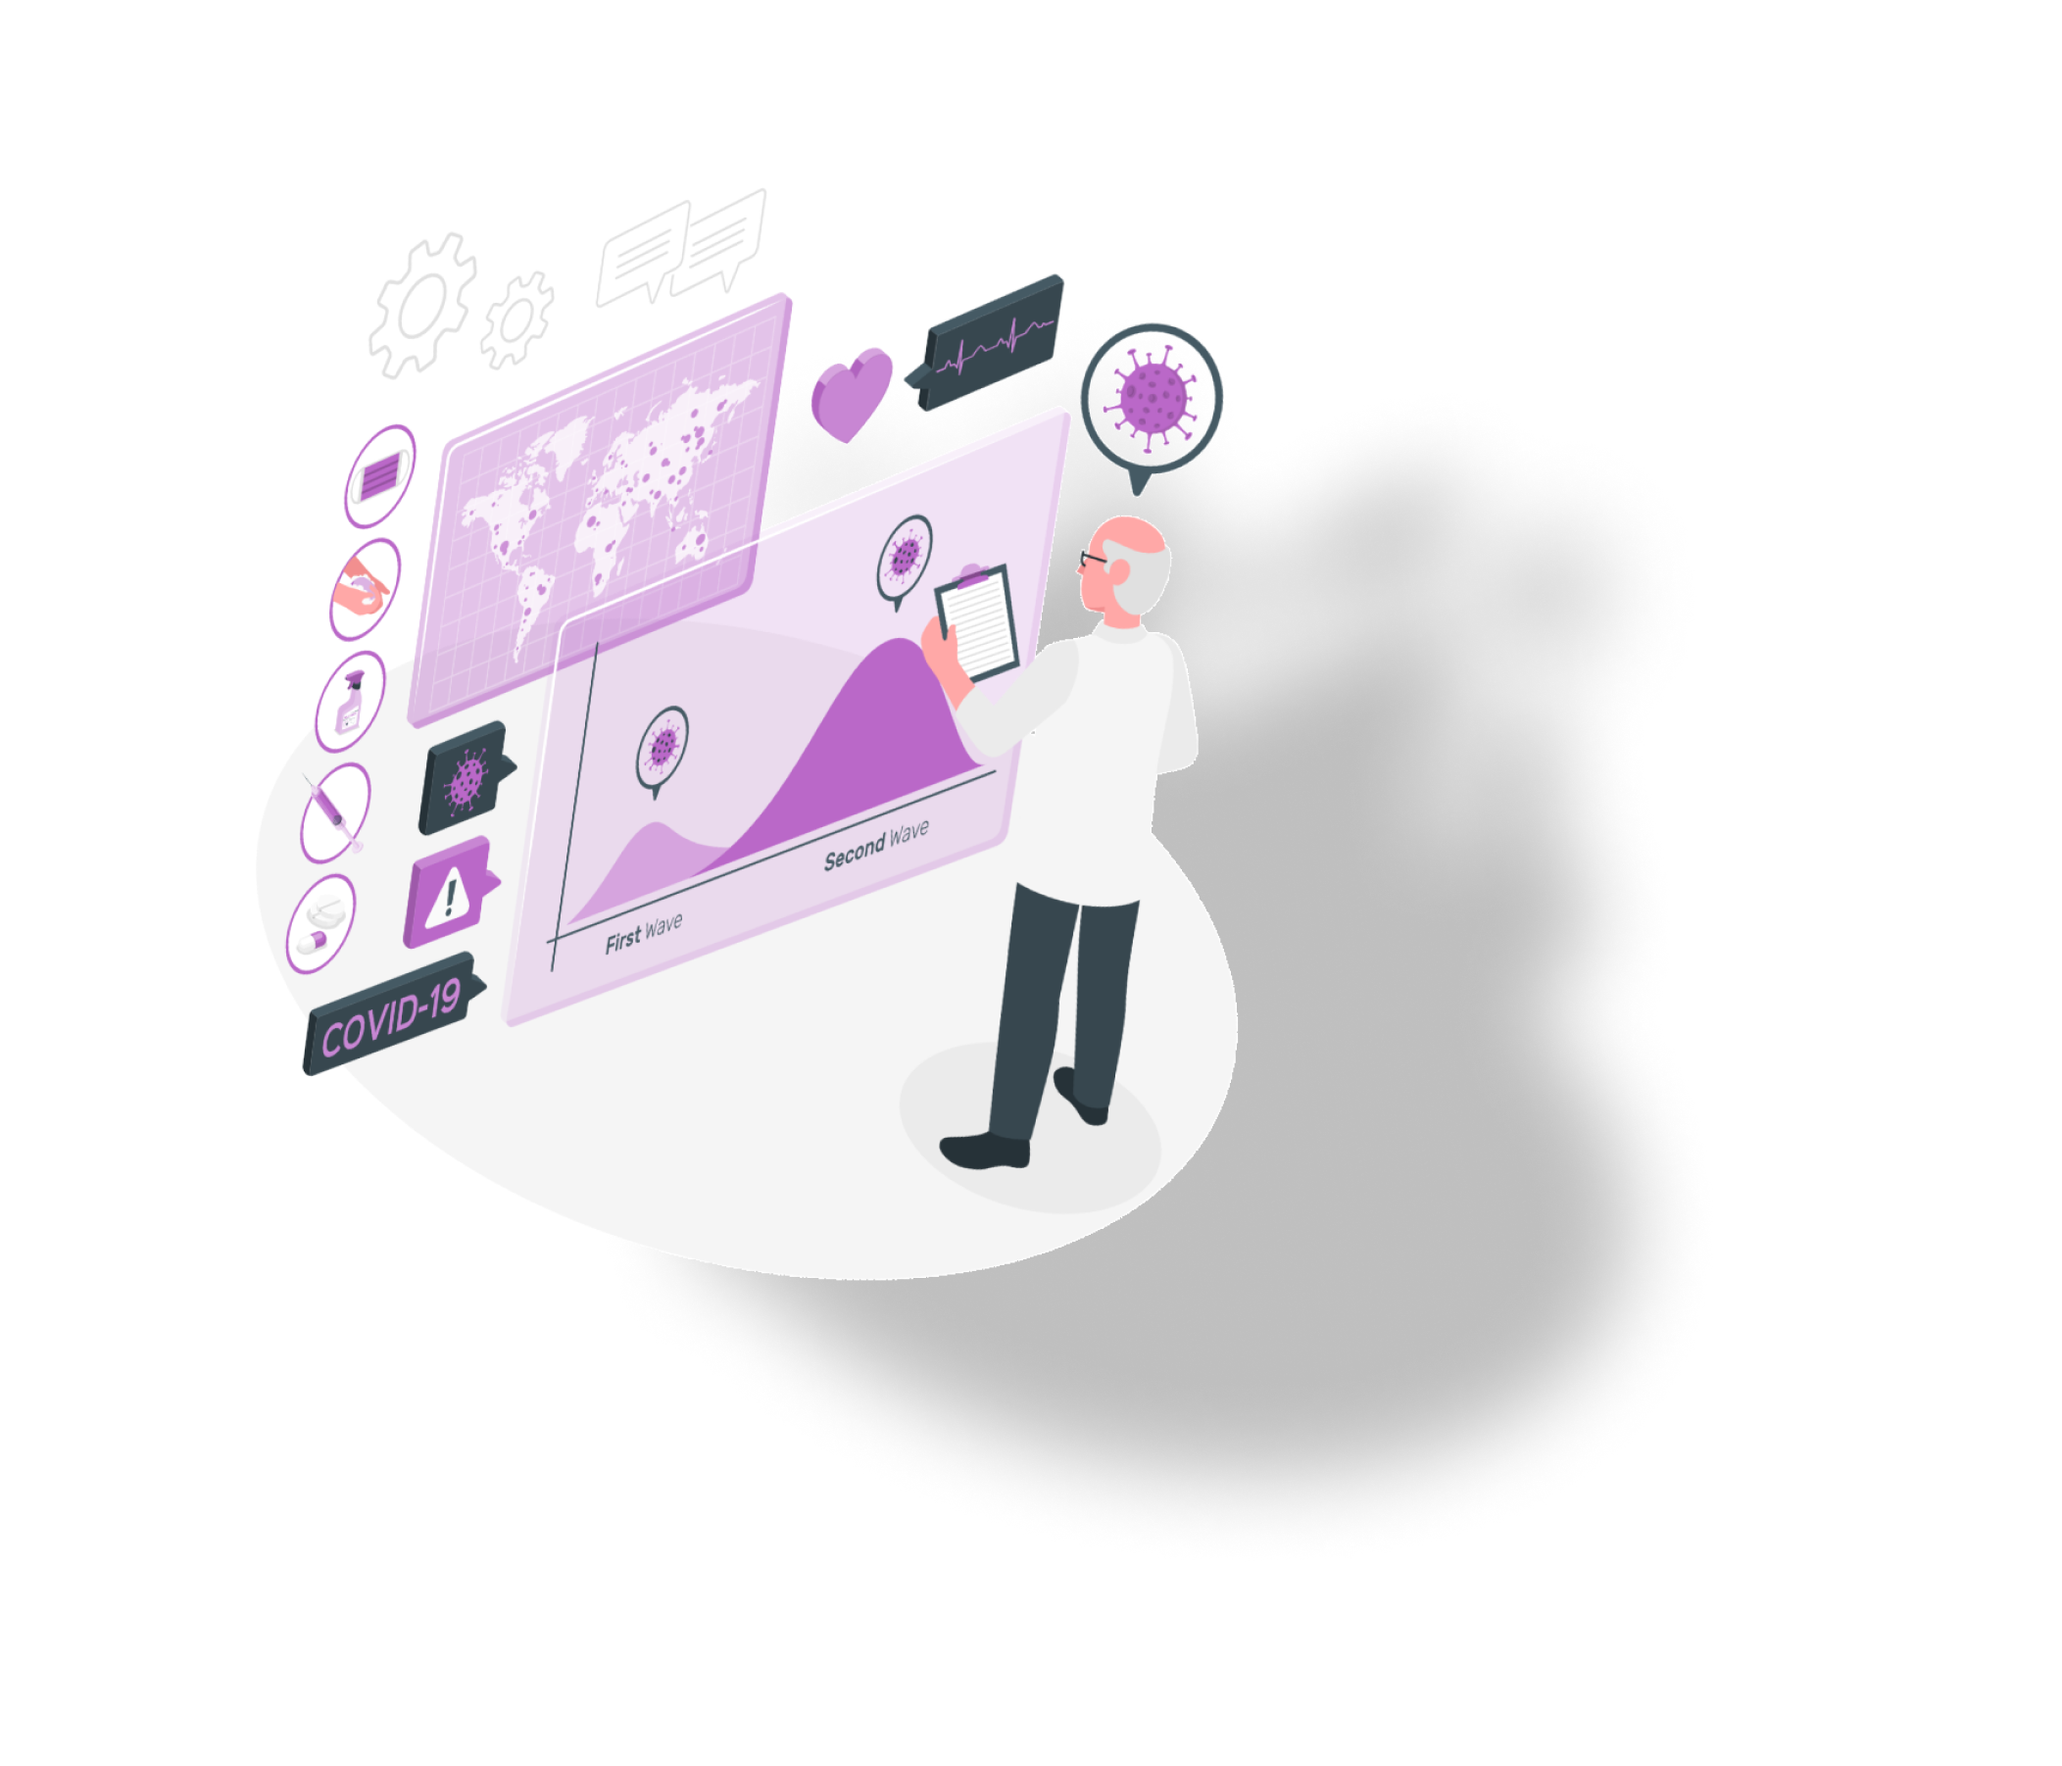
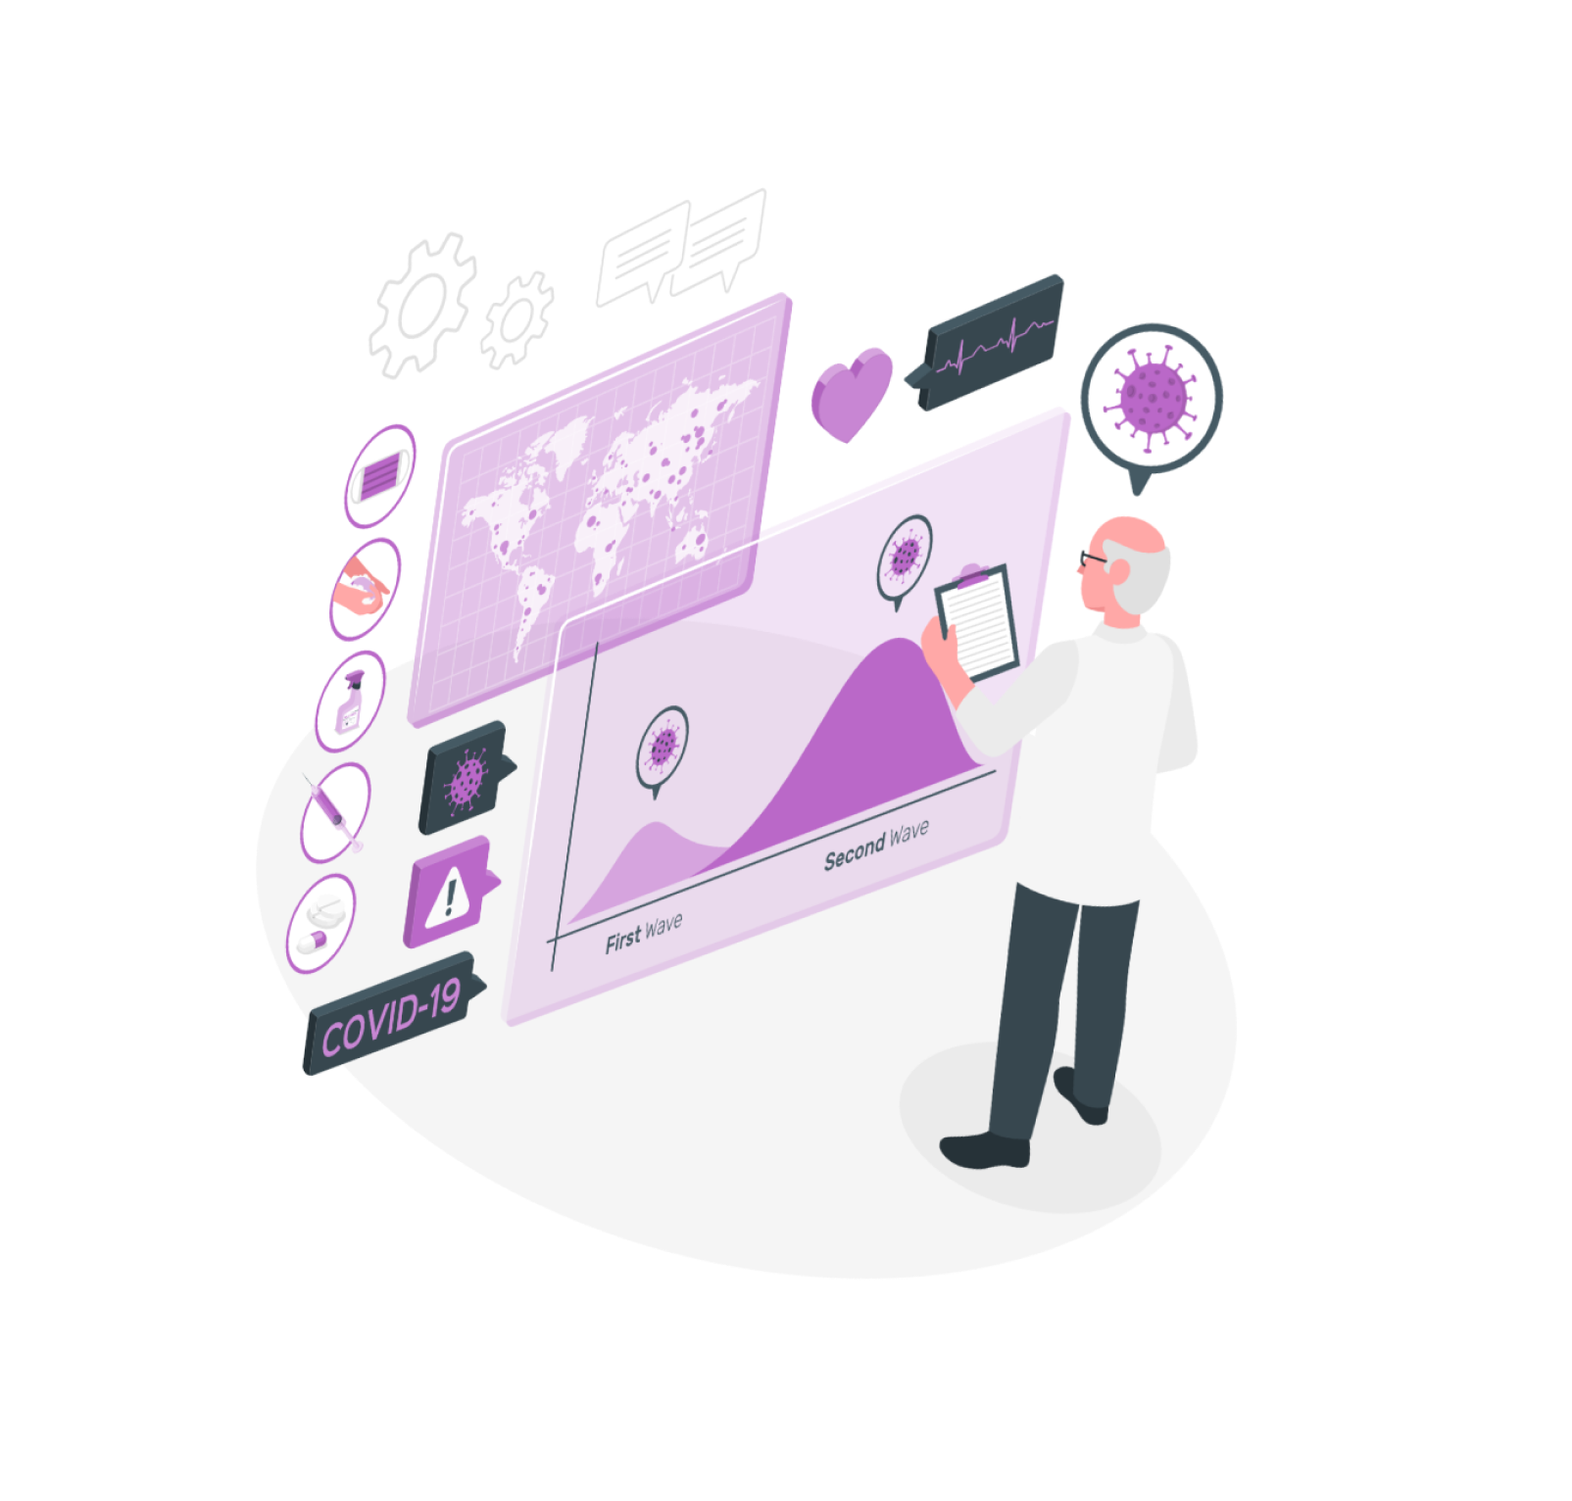
✨ 이미, 아마 사장 인덱스 페이지 생성
- 이미, 아마 사장 인덱스 페이지 생성

Changed region(s): [[0.1247, 0.1534, 0.8105, 0.859], [0.187, 0.1841, 0.2182, 0.2148]]

diff --git a/frontend/src/components/organisms/PageIndexItem/index.tsx b/frontend/src/components/organisms/PageIndexItem/index.tsx
@@ -1,29 +1,46 @@
-import React from 'react';
+import React, { useEffect } from 'react';
 import styled from 'styled-components';
 import AOS from 'aos';
 import 'aos/dist/aos.css';
-import { PageIndexContent } from '../../../models/common';
-import IndexItemDescription from '../../molecules/IndexItemDescription';
+import Button from '../../atoms/Button';
 
 // 이미사장, 아마사장 메인 페이지
 
 interface PageIndexItemProps {
-  right?: boolean;
-  content: PageIndexContent;
-  onClick?: React.MouseEventHandler<HTMLButtonElement>;
+  type: 'pro' | 'ama';
 }
 
-const PageIndexItem = ({ content, right, onClick }: PageIndexItemProps) => {
+const PageIndexItem = ({ type }: PageIndexItemProps) => {
+  useEffect(() => {
+    AOS.init();
+  }, []);
   return (
     <Wrapper>
-      {' '}
-      {right ? (
+      {type === 'pro' ? (
         <>
-          <img src={content.imgSrc} alt="" />
+          <div className="content left">
+            <div>
+              <div>내 가게 진단을 위해 가게 정보가 필요합니다.</div>
+              <div>정보를 입력해주세요.</div>
+            </div>
+            <Button type="blur">내 가게 정보 입력</Button>
+          </div>
+          <div className="img-div">
+            <img src="/assets/img/index_img_pro.png" alt="" />
+          </div>
         </>
       ) : (
         <>
-          <img src={content.imgSrc} alt="" />
+          <div className="img-div img-right">
+            <img src="/assets/img/index_img_ama.png" alt="" />
+          </div>
+          <div className="content right">
+            <div>
+              <div>내 가게 진단을 위해 가게 정보가 필요합니다.</div>
+              <div>정보를 입력해주세요.</div>
+            </div>
+            <Button type="blur">내 가게 상상하기</Button>
+          </div>
         </>
       )}
     </Wrapper>
@@ -34,11 +51,43 @@ const Wrapper = styled.div`
   display: flex;
   justify-content: center;
   align-items: center;
+  padding: 0 100px;
   height: calc(100vh - 80px);
   gap: 30px;
+  & .content {
+    flex-grow: 1;
+    width: 40%;
+    display: flex;
+    flex-direction: column;
+    gap: 30px;
+  }
+  & .left {
+    margin-left: 10vw;
+  }
+  & .right {
+    margin-right: 10vw;
+    display: flex;
+    flex-direction: column;
+    align-items: flex-end;
+    & > div {
+      display: flex;
+      flex-direction: column;
+      align-items: flex-end;
+    }
+  }
+  & .img-div {
+    flex-grow: 1;
+    width: 60%;
+  }
   & img {
-    width: 675px;
-    height: 675px;
+    width: 100%;
+    max-width: 800px;
+    /* height: 675px; */
+    filter: drop-shadow(200px 100px 50px rgba(0, 0, 0, 0.25));
+  }
+  & .img-right {
+    display: flex;
+    justify-content: end;
   }
 `;
 

diff --git a/frontend/src/styles/GlobalStyle.ts b/frontend/src/styles/GlobalStyle.ts
@@ -3,11 +3,20 @@ import { createGlobalStyle } from 'styled-components';
 // 글로벌 스타일은 여기에 작성
 
 const GlobalStyle = createGlobalStyle`
+  @font-face {
+      font-family: 'Eoe_Zno_EB';
+      src: url('https://cdn.jsdelivr.net/gh/projectnoonnu/noonfonts_eight@1.0/Eoe_Zno_EB.woff') format('woff');
+      font-weight: normal;
+      font-style: normal;
+  }
+  @import url(//fonts.googleapis.com/earlyaccess/notosanskr.css);
   body {
     margin: 0;
-    font-family: -apple-system, BlinkMacSystemFont, 'Segoe UI', 'Roboto', 'Oxygen',
+    /* font-family: -apple-system, BlinkMacSystemFont, 'Segoe UI', 'Roboto', 'Oxygen',
       'Ubuntu', 'Cantarell', 'Fira Sans', 'Droid Sans', 'Helvetica Neue',
-      sans-serif;
+      sans-serif; */
+      font-family: 'Noto Sans KR', sans-serif;
+      font-weight: 500;
     -webkit-font-smoothing: antialiased;
     -moz-osx-font-smoothing: grayscale;
   }

diff --git a/frontend/src/components/pages/professional/ProfessionalPage.tsx b/frontend/src/components/pages/professional/ProfessionalPage.tsx
@@ -3,7 +3,11 @@ import styled from 'styled-components';
 import PageIndexItem from '../../organisms/PageIndexItem';
 
 const ProfessionalPage = () => {
-  return <Wrapper>{/* <PageIndexItem content={} /> */}</Wrapper>;
+  return (
+    <Wrapper>
+      <PageIndexItem type="pro" />
+    </Wrapper>
+  );
 };
 
 const Wrapper = styled.div``;

diff --git a/frontend/src/components/pages/amatuer/AmatuerPage.tsx b/frontend/src/components/pages/amatuer/AmatuerPage.tsx
@@ -1,10 +1,11 @@
 import React from 'react';
 import styled from 'styled-components';
+import PageIndexItem from '../../organisms/PageIndexItem';
 
 const AmatuerPage = () => {
   return (
     <Wrapper>
-      <h1>AmatuerPage</h1>
+      <PageIndexItem type="ama" />
     </Wrapper>
   );
 };

diff --git a/frontend/src/models/common.ts b/frontend/src/models/common.ts
@@ -15,9 +15,3 @@ export interface LabelInputContent {
   label: string;
   placeholder: string;
 }
-
-export interface PageIndexContent {
-  content: string;
-  imgSrc: string;
-  buttonContent: string;
-}

diff --git a/frontend/src/components/atoms/Button/index.tsx b/frontend/src/components/atoms/Button/index.tsx
@@ -48,6 +48,7 @@ const BlurButton = styled.button`
 
   color: 000000;
   font-size: 20px;
+  font-weight: 700;
   background: #ffffff;
   border-radius: 15px;
 
